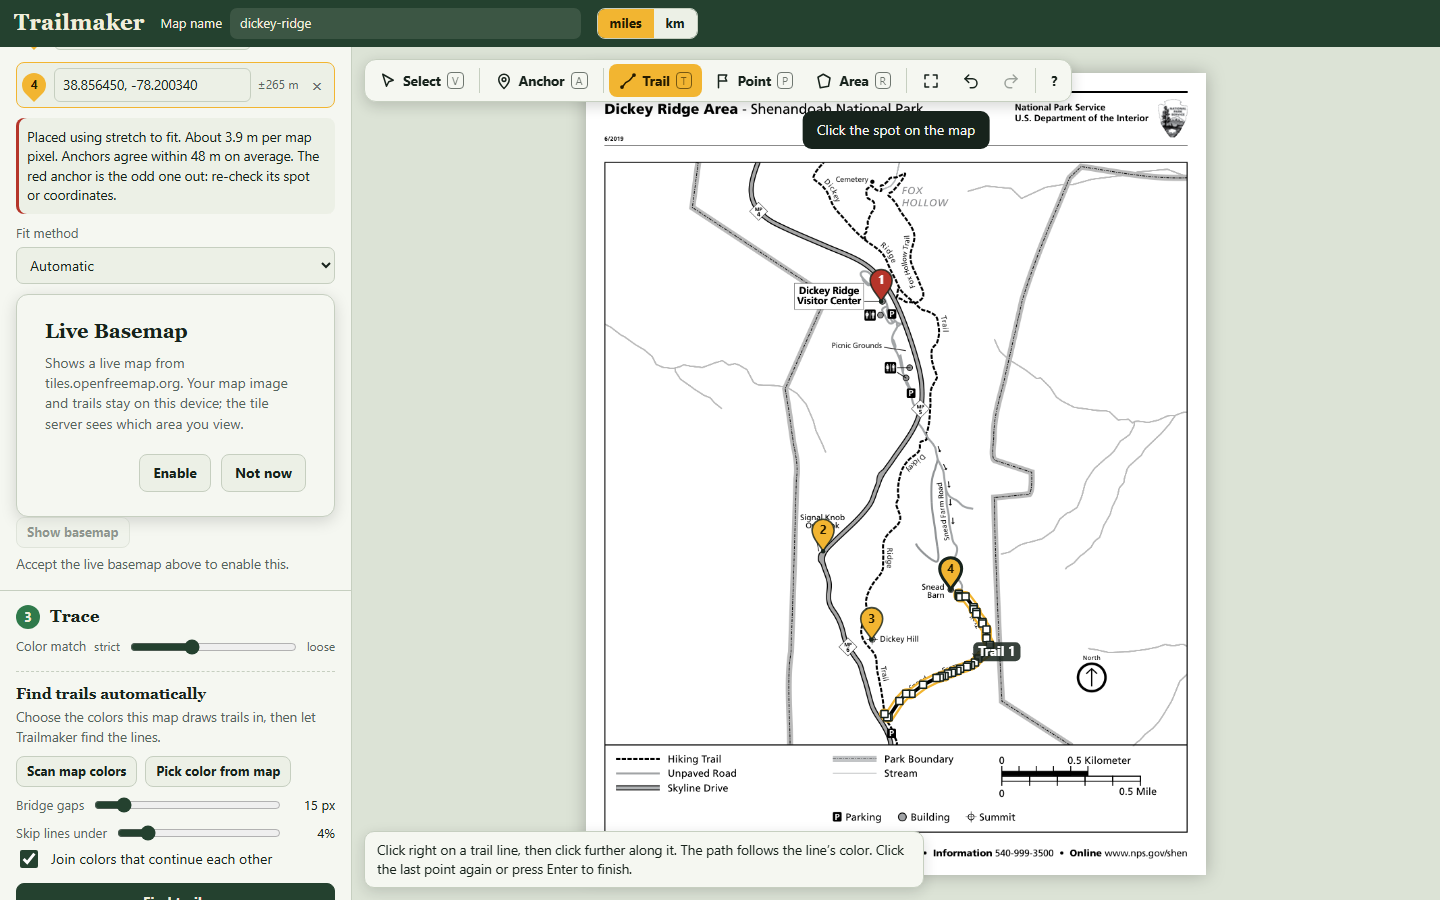
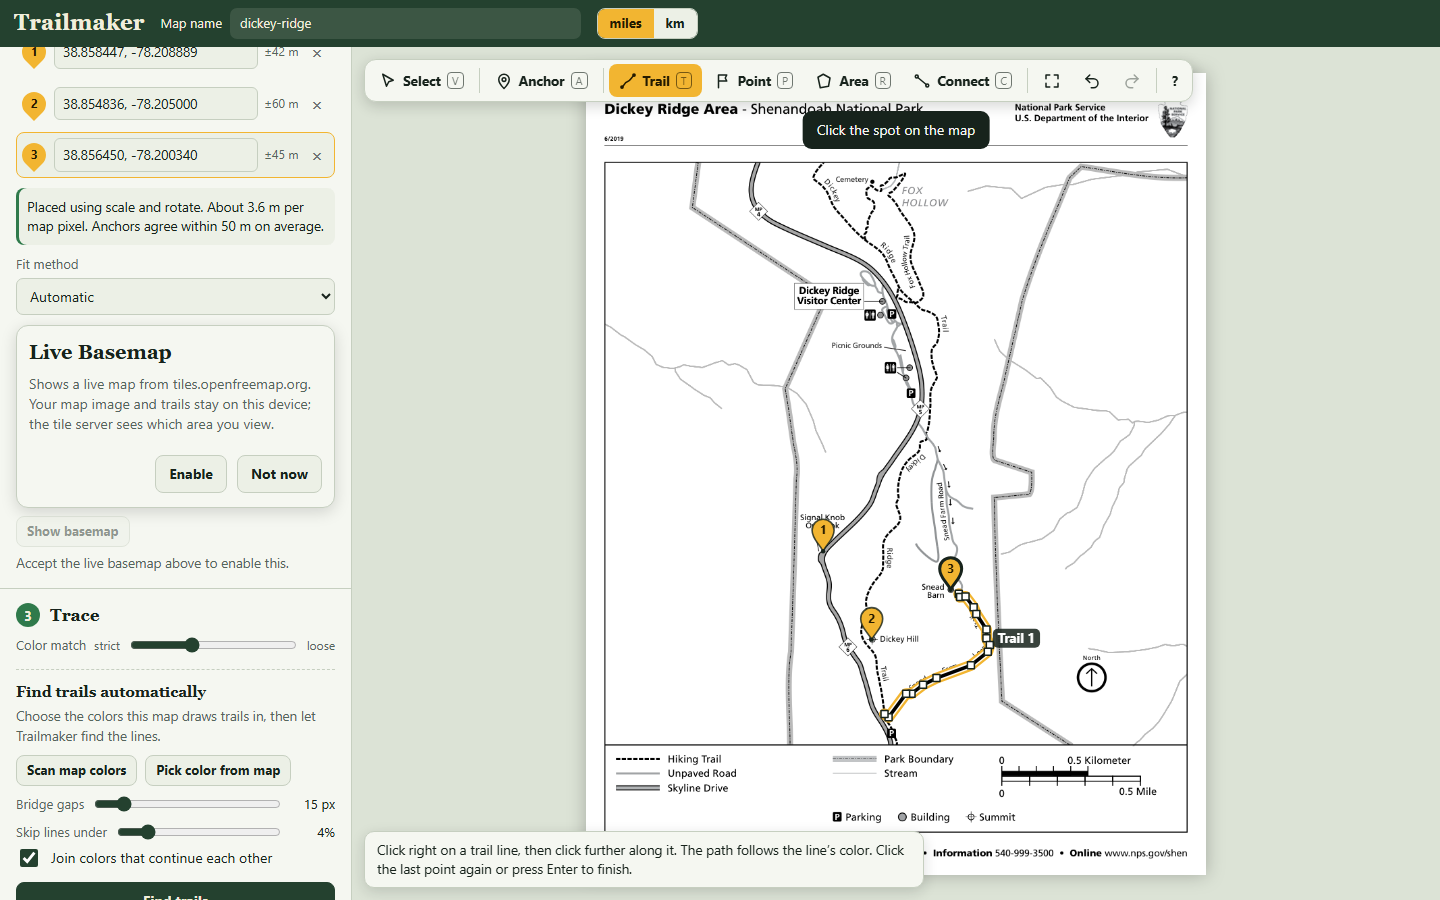
Trailmaker 1.4.1

diff --git a/tests/e2e/readme-screenshots.spec.ts b/tests/e2e/readme-screenshots.spec.ts
@@ -42,7 +42,12 @@ test('README walkthrough screenshots', async ({ page }) => {
   await page.screenshot({ path: `${OUT}/1-open.png` });
 
   await page.getByRole('button', { name: 'Add anchor' }).click();
-  for (const [i, anchor] of truth.anchors.slice(0, 4).entries()) {
+  // README_ANCHORS picks which fixture anchors to use (0-based, comma-separated); the fixture
+  // coordinates are approximate, so leave out any that disagree for a clean showcase.
+  const picked = process.env.README_ANCHORS
+    ? process.env.README_ANCHORS.split(',').map((i) => truth.anchors[Number(i)]!)
+    : truth.anchors.slice(0, 4);
+  for (const [i, anchor] of picked.entries()) {
     await click(anchor.px);
     const input = page.getByRole('textbox', { name: `Coordinates for anchor ${i + 1}` });
     await expect(input).toBeVisible();
@@ -51,7 +56,7 @@ test('README walkthrough screenshots', async ({ page }) => {
   }
   await expect
     .poll(() => page.evaluate(() => window.__trailmaker!.session.getSession()!.project.anchors.filter((a) => a.ll).length))
-    .toBe(4);
+    .toBe(picked.length);
   await page.screenshot({ path: `${OUT}/2-anchors.png` });
 
   await steps.getByRole('checkbox', { name: "Follow the line's color while tracing" }).check();

diff --git a/README.md b/README.md
@@ -34,7 +34,7 @@ loaded, and installs as an app (PWA).
 
 ## Two-minute walkthrough
 
-The screenshots use the public-domain NPS
+The walkthrough screenshots use the public-domain NPS
 [Dickey Ridge Area map](https://www.nps.gov/shen/planyourvisit/upload/DickeyRidgeArea_RoadTrail.pdf)
 from Shenandoah National Park. It's in `tests/fixtures/real/`.
 
@@ -48,7 +48,8 @@ a visitor center, trailhead, junction or overlook. Paste its coordinates (decima
 degrees-minutes-seconds, or a Google Maps URL) and press Enter. Or open the basemap and tap the
 same spot there. Use three to six spots spread across the map, not in a line.
 
-Trailmaker fits the map and shows how well the anchors agree. If one is well off, it turns red so
+Trailmaker fits the map and shows how well the anchors agree (within 50 m in the screenshot). If
+one is well off, it turns red so
 you can re-check it. If the anchors can't check each other yet (for example, most of them lie on
 one line), it says so and suggests where to add one. For warped or hand-drawn maps, pick
 *Rubber sheet* under **Fit method**.
@@ -85,6 +86,9 @@ gives you every format. **Save project** writes a `.trailmaker` file you can reo
    detail, for example "USGS NAIP · about 0.3 m per pixel". Zoom the map out to take in more.
 3. Click **Capture map**. The imagery becomes your map, already pinned to the real world, so
    there are no anchors to place. Trace, connect, simplify and export as above.
+
+![A 0.3 m NAIP capture of Seabranch Preserve, Florida, with its nine automatic anchors and the live
+satellite basemap beside it](docs/screenshots/5-satellite.png)
 
 In the lower 48 US states the capture uses **NAIP** aerial imagery (USDA, via USGS, 0.3–0.6 m per
 pixel). Elsewhere, or where NAIP has no data, it falls back to the USGS imagery basemap (about
@@ -136,8 +140,9 @@ pnpm gate              # all of the above, then build
 ```
 
 To regenerate the README screenshots, run
-`README_SHOTS=1 pnpm exec playwright test readme-screenshots`. On Windows PowerShell, set
-`$env:README_SHOTS='1'` first.
+`README_SHOTS=1 README_FIXTURE=dickey-ridge README_ANCHORS=1,2,3 pnpm exec playwright test readme-screenshots`.
+On Windows PowerShell, set the three variables with `$env:NAME='value'` first. The satellite
+screenshot (`5-satellite.png`) is a live NAIP capture of Seabranch Preserve.
 
 Layout: `src/core` holds the pure TypeScript (geo fits, tracing, export, project format,
 topology), `src/worker` the Comlink worker, `src/state` the Zustand store, `src/ui` the canvas
